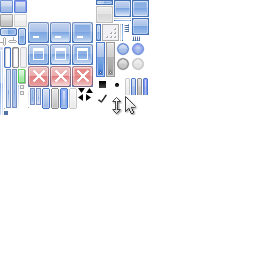
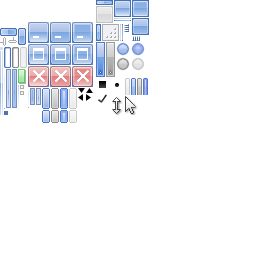
checkboxes

diff --git a/api/gui.cpp b/api/gui.cpp
@@ -31,25 +31,52 @@ static void SendCallback(OSControl *from, OSEventCallback &callback, OSEvent &ev
 static void OSDrawControl(OSWindow *window, OSControl *control) {
 	if (!window) return;
 
+	int imageWidth = control->image.right - control->image.left;
+	int imageHeight = control->image.bottom - control->image.top;
+
 	bool isHoverControl = control == window->hoverControl;
 	bool isPressedControl = control == window->pressedControl;
-	intptr_t styleX = (control->disabled ? 69
-			: ((isPressedControl && isHoverControl) ? 60 : ((isPressedControl || isHoverControl) ? 42 : 51)));
+	intptr_t styleX = (control->disabled ? 3
+			: ((isPressedControl && isHoverControl) ? 2 
+			: ((isPressedControl || isHoverControl) ? 0 : 1)));
+	styleX = (imageWidth + 1) * styleX + control->image.left;
 
-	OSDrawSurface(window->surface, OS_SURFACE_UI_SHEET, 
-			control->bounds,
-			OSRectangle(styleX, styleX + 8, 88, 88 + 21),
-			OSRectangle(styleX + 3, styleX + 5, 88 + 10, 88 + 11),
-			OS_DRAW_MODE_REPEAT_FIRST);
+	if (control->fillImageToBounds) {
+		OSDrawSurface(window->surface, OS_SURFACE_UI_SHEET, 
+				control->bounds,
+				OSRectangle(styleX, styleX + imageWidth, control->image.top, control->image.bottom),
+				OSRectangle(styleX + 3, styleX + 5, control->image.top + 10, control->image.top + 11),
+				OS_DRAW_MODE_REPEAT_FIRST);
+	} else {
+		OSDrawSurface(window->surface, OS_SURFACE_UI_SHEET, 
+				OSRectangle(control->bounds.left, control->bounds.left + control->fillWidth, 
+					control->bounds.top, control->bounds.top + imageHeight),
+				OSRectangle(styleX, styleX + imageWidth, control->image.top, control->image.bottom),
+				OSRectangle(styleX + 3, styleX + 5, control->image.top + 10, control->image.top + 11),
+				OS_DRAW_MODE_REPEAT_FIRST);
+	}
+
+	if (control->checked) {
+		OSDrawSurface(window->surface, OS_SURFACE_UI_SHEET, 
+				OSRectangle(control->bounds.left, control->bounds.left + control->fillWidth, 
+					control->bounds.top, control->bounds.top + imageHeight),
+				OSRectangle(96, 96 + 13, 92, 92 + 13),
+				OSRectangle(96 + 3, 96 + 5, 92 + 10, 92 + 11),
+				OS_DRAW_MODE_REPEAT_FIRST);
+	}
 
 	OSEvent labelEvent = {};
 	labelEvent.type = OS_EVENT_GET_LABEL;
 	SendCallback(control, control->getLabel, labelEvent);
 
-	OSDrawString(window->surface, control->bounds, 
+	OSDrawString(window->surface, 
+			(!control->fillImageToBounds) ? OSRectangle(control->bounds.left + control->fillWidth + 4, 
+				control->bounds.right, control->bounds.top, control->bounds.bottom) : control->bounds, 
 			labelEvent.getLabel.label, labelEvent.getLabel.labelLength,
-			OS_DRAW_STRING_HALIGN_CENTER | OS_DRAW_STRING_VALIGN_CENTER,
-			control->disabled ? 0x808080 : 0x000000);
+			((!control->fillImageToBounds) ? OS_DRAW_STRING_HALIGN_LEFT : OS_DRAW_STRING_HALIGN_CENTER) 
+				| OS_DRAW_STRING_VALIGN_CENTER,
+			control->disabled ? 0x808080 : 0x000000, 
+			(!control->fillImageToBounds) ? 0xF0F0F5 : -1);
 
 	if (labelEvent.getLabel.freeLabel) {
 		OSHeapFree(labelEvent.getLabel.label);
@@ -105,6 +132,12 @@ void OSDisableControl(OSControl *control, bool disabled) {
 	OSDrawControl(control->parent, control);
 }
 
+void OSCheckControl(OSControl *control, bool checked) {
+	control->checked = checked;
+
+	OSDrawControl(control->parent, control);
+}
+
 OSError OSAddControl(OSWindow *window, OSControl *control, int x, int y) {
 	control->bounds.left    = x + BORDER_OFFSET_X;
 	control->bounds.top     = y + BORDER_OFFSET_Y;
@@ -120,13 +153,30 @@ OSError OSAddControl(OSWindow *window, OSControl *control, int x, int y) {
 	return OS_SUCCESS;
 }
 
-OSControl *OSCreateControl(OSControlType type) {
+OSControl *OSCreateControl(OSControlType type, char *label, size_t labelLength, bool cloneLabel) {
 	OSControl *control = (OSControl *) OSHeapAllocate(sizeof(OSControl), true);
 	if (!control) return nullptr;
 
 	control->type = type;
-	control->bounds.right = 80;
-	control->bounds.bottom = 21;
+
+	switch (type) {
+		case OS_CONTROL_BUTTON: {
+			control->bounds.right = 80;
+			control->bounds.bottom = 21;
+			control->fillImageToBounds = true;
+			control->image = OSRectangle(42, 42 + 8, 88, 88 + 21);
+		} break;
+
+		case OS_CONTROL_CHECKBOX: {
+			control->bounds.right = 21 + MeasureStringWidth(label, labelLength, GetGUIFontScale());
+			control->bounds.bottom = 13;
+			control->fillImageToBounds = false;
+			control->fillWidth = 13;
+			control->image = OSRectangle(42, 42 + 8, 110, 110 + 13);
+		} break;
+	}
+
+	OSSetControlLabel(control, label, labelLength, cloneLabel);
 
 	return control;
 }
@@ -192,6 +242,11 @@ OSError OSProcessGUIMessage(OSMessage *message) {
 			if (window->pressedControl) {
 				OSControl *previousPressedControl = window->pressedControl;
 				window->pressedControl = nullptr;
+
+				if (previousPressedControl->type == OS_CONTROL_CHECKBOX) {
+					previousPressedControl->checked = !previousPressedControl->checked;
+				}
+
 				OSDrawControl(window, previousPressedControl);
 
 				if (window->hoverControl == previousPressedControl) {

diff --git a/api/font.cpp b/api/font.cpp
@@ -27,31 +27,12 @@ static void OSFontRendererInitialise() {
 	fontRendererInitialised = true;
 }
 
-OSError OSDrawString(OSHandle surface, OSRectangle region, 
-		char *string, size_t stringLength,
-		unsigned alignment, uint32_t color) {
-	if (!stringLength) return OS_SUCCESS;
+static int MeasureStringWidth(char *string, size_t stringLength, float scale) {
+	char *stringEnd = string + stringLength;
+	int totalWidth = 0;
 
 	OSFontRendererInitialise();
-	if (!fontRendererInitialised) return OS_ERROR_COULD_NOT_LOAD_FONT;
-
-#define FONT_SIZE (16.0f)
-	float scale = stbtt_ScaleForPixelHeight(&guiRegularFont, FONT_SIZE);
-	int ascent, descent, lineGap;
-	stbtt_GetFontVMetrics(&guiRegularFont, &ascent, &descent, &lineGap);
-	ascent  *= scale;
-	descent *= scale;
-	lineGap *= scale;
-
-	int lineHeight = ascent - descent + lineGap;
-
-	char *stringStart = string;
-	char *stringEnd = string + stringLength;
-
-	OSLinearBuffer linearBuffer;
-	OSGetLinearBuffer(surface, &linearBuffer);
-
-	int totalWidth = 0;
+	if (!fontRendererInitialised) return -1;
 
 	while (string < stringEnd) {
 		int character = utf8_value(string);
@@ -66,7 +47,42 @@ OSError OSDrawString(OSHandle surface, OSRectangle region,
 		string = utf8_advance(string);
 	}
 
-	string = stringStart;
+	return totalWidth;
+}
+
+static float GetGUIFontScale() {
+	OSFontRendererInitialise();
+	if (!fontRendererInitialised) return OS_ERROR_COULD_NOT_LOAD_FONT;
+
+#define FONT_SIZE (16.0f)
+	float scale = stbtt_ScaleForPixelHeight(&guiRegularFont, FONT_SIZE);
+	return scale;
+}
+
+OSError OSDrawString(OSHandle surface, OSRectangle region, 
+		char *string, size_t stringLength,
+		unsigned alignment, uint32_t color, int32_t backgroundColor) {
+	if (!stringLength) return OS_SUCCESS;
+
+	OSFontRendererInitialise();
+	if (!fontRendererInitialised) return OS_ERROR_COULD_NOT_LOAD_FONT;
+
+	float scale = GetGUIFontScale();
+
+	int ascent, descent, lineGap;
+	stbtt_GetFontVMetrics(&guiRegularFont, &ascent, &descent, &lineGap);
+	ascent  *= scale;
+	descent *= scale;
+	lineGap *= scale;
+
+	int lineHeight = ascent - descent + lineGap;
+
+	char *stringEnd = string + stringLength;
+
+	OSLinearBuffer linearBuffer;
+	OSGetLinearBuffer(surface, &linearBuffer);
+
+	int totalWidth = MeasureStringWidth(string, stringLength, scale);
 
 	OSPoint outputPosition;
 
@@ -98,6 +114,9 @@ OSError OSDrawString(OSHandle surface, OSRectangle region,
 
 	outputPosition.y += ascent;
 
+	OSRectangle invalidatedRegion = OSRectangle(outputPosition.x, outputPosition.x,
+			outputPosition.y, outputPosition.y);
+
 	while (string < stringEnd) {
 		int character = utf8_value(string);
 
@@ -125,24 +144,41 @@ OSError OSDrawString(OSHandle surface, OSRectangle region,
 		}
 
 		for (int y = 0; y < height; y++) {
-			if (outputPosition.y + iy0 + y < region.top) continue;
-			if (outputPosition.y + iy0 + y >= region.bottom) break;
+			int oY = outputPosition.y + iy0 + y;
+
+			if (oY < region.top) continue;
+			if (oY >= region.bottom) break;
+
+			if (oY < invalidatedRegion.top) invalidatedRegion.top = oY;
+			if (oY > invalidatedRegion.bottom) invalidatedRegion.bottom = oY;
 
 			for (int x = 0; x < width; x++) {
-				if (outputPosition.x + ix0 + x < region.left) continue;
-				if (outputPosition.x + ix0 + x >= region.right) break;
+				int oX = outputPosition.x + ix0 + x;
+			
+				if (oX < region.left) continue;
+				if (oX >= region.right) break;
+
+				if (oX < invalidatedRegion.left) invalidatedRegion.left = oX;
+				if (oX > invalidatedRegion.right) invalidatedRegion.right = oX;
 
 				uint8_t pixel = output[x + y * width];
 				uint32_t *destination = (uint32_t *) ((uint8_t *) linearBuffer.buffer + 
-						(x + outputPosition.x + ix0) * 4 + 
-						(y + outputPosition.y + iy0) * linearBuffer.stride);
+						(oX) * 4 + 
+						(oY) * linearBuffer.stride);
 
 				uint32_t sourcePixel = (pixel << 24) | color;
 
 				if (pixel == 0xFF) {
 					*destination = sourcePixel;
 				} else {
-					uint32_t original = *destination;
+					uint32_t original;
+
+					if (backgroundColor < 0) {
+						original = *destination;
+					} else {
+						original = backgroundColor;
+					}
+
 					uint32_t modified = sourcePixel;
 
 					uint32_t alpha1 = (modified & 0xFF000000) >> 24;
@@ -168,6 +204,11 @@ OSError OSDrawString(OSHandle surface, OSRectangle region,
 		outputPosition.x += advanceWidth;
 		string = utf8_advance(string);
 	}
+
+	OSPrint("drawn string, invalidating: %d, %d, %d, %d\n", 
+			invalidatedRegion.left, invalidatedRegion.right,
+			invalidatedRegion.top, invalidatedRegion.bottom);
+	OSInvalidateRectangle(surface, invalidatedRegion);
 
 	return OS_SUCCESS;
 }

diff --git a/test_program/main.cpp b/test_program/main.cpp
@@ -35,7 +35,7 @@ void GetTextCallback(OSControl *generator, void *argument, OSEvent *event) {
 void ButtonCallback(OSControl *generator, void *argument, OSEvent *event) {
 	(void) event;
 
-	OSControl *newButton = OSCreateControl(OS_CONTROL_BUTTON);
+	OSControl *newButton = OSCreateControl(OS_CONTROL_BUTTON, (char *) "", 0, false);
 	OSAddControl(window, newButton, 16, (uintptr_t) argument);
 
 	newButton->action.callback = ButtonCallback;
@@ -52,18 +52,35 @@ extern "C" void ProgramEntry() {
 #define C_STRING_TO_API_STRING(literal) (char *) literal, OSCStringLength((char *) literal)
 
 	window = OSCreateWindow(640, 480);
-	OSControl *button1 = OSCreateControl(OS_CONTROL_BUTTON);
+	OSControl *button1 = OSCreateControl(OS_CONTROL_BUTTON, (char *) "", 0, false);
+	OSControl *button2 = OSCreateControl(OS_CONTROL_BUTTON, (char *) "", 0, false);
+	OSControl *button3 = OSCreateControl(OS_CONTROL_BUTTON, (char *) "", 0, false);
+	button1->image = OSRectangle(28, 28 + 21, 66, 66 + 21);
+	button2->image = OSRectangle(28, 28 + 21, 44, 44 + 21);
+	button3->image = OSRectangle(28, 28 + 21, 22, 22 + 21);
+	button1->bounds = OSRectangle(0, 21, 0, 21);
+	button2->bounds = OSRectangle(0, 21, 0, 21);
+	button3->bounds = OSRectangle(0, 21, 0, 21);
+#if 0
 	char n[4];
 	OSCopyMemory(n, (void *) "1234", 4);
 	OSSetControlLabel(button1, (char *) n, 4, true);
 	OSCopyMemory(n, (void *) "5678", 4);
 	OSSetControlLabel(button1, (char *) n, 4, false);
 	OSCopyMemory(n, (void *) "9012", 4);
-	OSAddControl(window, button1, 16, 16);
+#endif
+	OSAddControl(window, button1, 640 - 23 -  0, -24);
+	OSAddControl(window, button2, 640 - 23 - 22, -24);
+	OSAddControl(window, button3, 640 - 23 - 44, -24);
 	
-	OSEventCallback *callback = &button1->action;
+	OSControl *button4 = OSCreateControl(OS_CONTROL_BUTTON, (char *) "Test", 4, false);
+	OSEventCallback *callback = &button4->action;
 	callback->callback = ButtonCallback;
 	callback->argument = (void *) (16 + 8 + 21);
+	OSAddControl(window, button4, 16, 16);
+
+	OSControl *checkbox = OSCreateControl(OS_CONTROL_CHECKBOX, (char *) "Checkbox", 8, false);
+	OSAddControl(window, checkbox, 120, 20);
 
 #if 0
 	OSHandle regularFontHandle = OSOpenNamedSharedMemory(C_STRING_TO_API_STRING(OS_GUI_FONT_REGULAR));

diff --git a/api/os.h b/api/os.h
@@ -170,12 +170,11 @@ struct OSEventCallback {
 
 enum OSControlType {
 	OS_CONTROL_BUTTON,
-	OS_CONTROL_IMAGE_BUTTON,
+	OS_CONTROL_CHECKBOX,
 };
 
 struct OSControl {
 	OSRectangle bounds;
-	OSRectangle image;
 
 	OSControlType type;
 
@@ -188,6 +187,13 @@ struct OSControl {
 	char *label;
 	size_t labelLength;
 	bool freeLabel;
+
+	OSRectangle image;
+
+	bool fillImageToBounds;
+	int fillWidth;
+
+	bool checked;
 };
 
 struct OSWindow {
@@ -290,7 +296,7 @@ extern "C" OSError OSFillRectangle(OSHandle surface, OSRectangle rectangle, OSCo
 extern "C" OSError OSCopySurface(OSHandle destination, OSHandle source, OSPoint destinationPoint);
 extern "C" OSError OSDrawSurface(OSHandle destination, OSHandle source, OSRectangle destinationRegion, OSRectangle sourceRegion, OSRectangle borderRegion, OSDrawMode mode);
 extern "C" OSError OSClearModifiedRegion(OSHandle surface);
-extern "C" OSError OSDrawString(OSHandle surface, OSRectangle region, char *string, size_t stringLength, unsigned flags, uint32_t color);
+extern "C" OSError OSDrawString(OSHandle surface, OSRectangle region, char *string, size_t stringLength, unsigned flags, uint32_t color, int32_t backgroundColor);
 
 extern "C" OSError OSGetMessage(OSMessage *message);
 extern "C" OSError OSSendMessage(OSHandle process, OSMessage *message);
@@ -298,10 +304,11 @@ extern "C" OSError OSWaitMessage(uintptr_t timeoutMs);
 
 extern "C" OSWindow *OSCreateWindow(size_t width, size_t height);
 extern "C" OSError OSUpdateWindow(OSWindow *window);
-extern "C" OSControl *OSCreateControl(OSControlType type);
+extern "C" OSControl *OSCreateControl(OSControlType type, char *label, size_t labelLength, bool cloneLabel);
 extern "C" OSError OSAddControl(OSWindow *window, OSControl *control, int x, int y);
 extern "C" OSError OSProcessGUIMessage(OSMessage *message);
 extern "C" void OSDisableControl(OSControl *control, bool disabled);
+extern "C" void OSCheckControl(OSControl *control, bool checked);
 extern "C" OSError OSSetControlLabel(OSControl *control, char *label, size_t labelLength, bool clone);
 extern "C" OSError OSInvalidateControl(OSControl *control);
 
